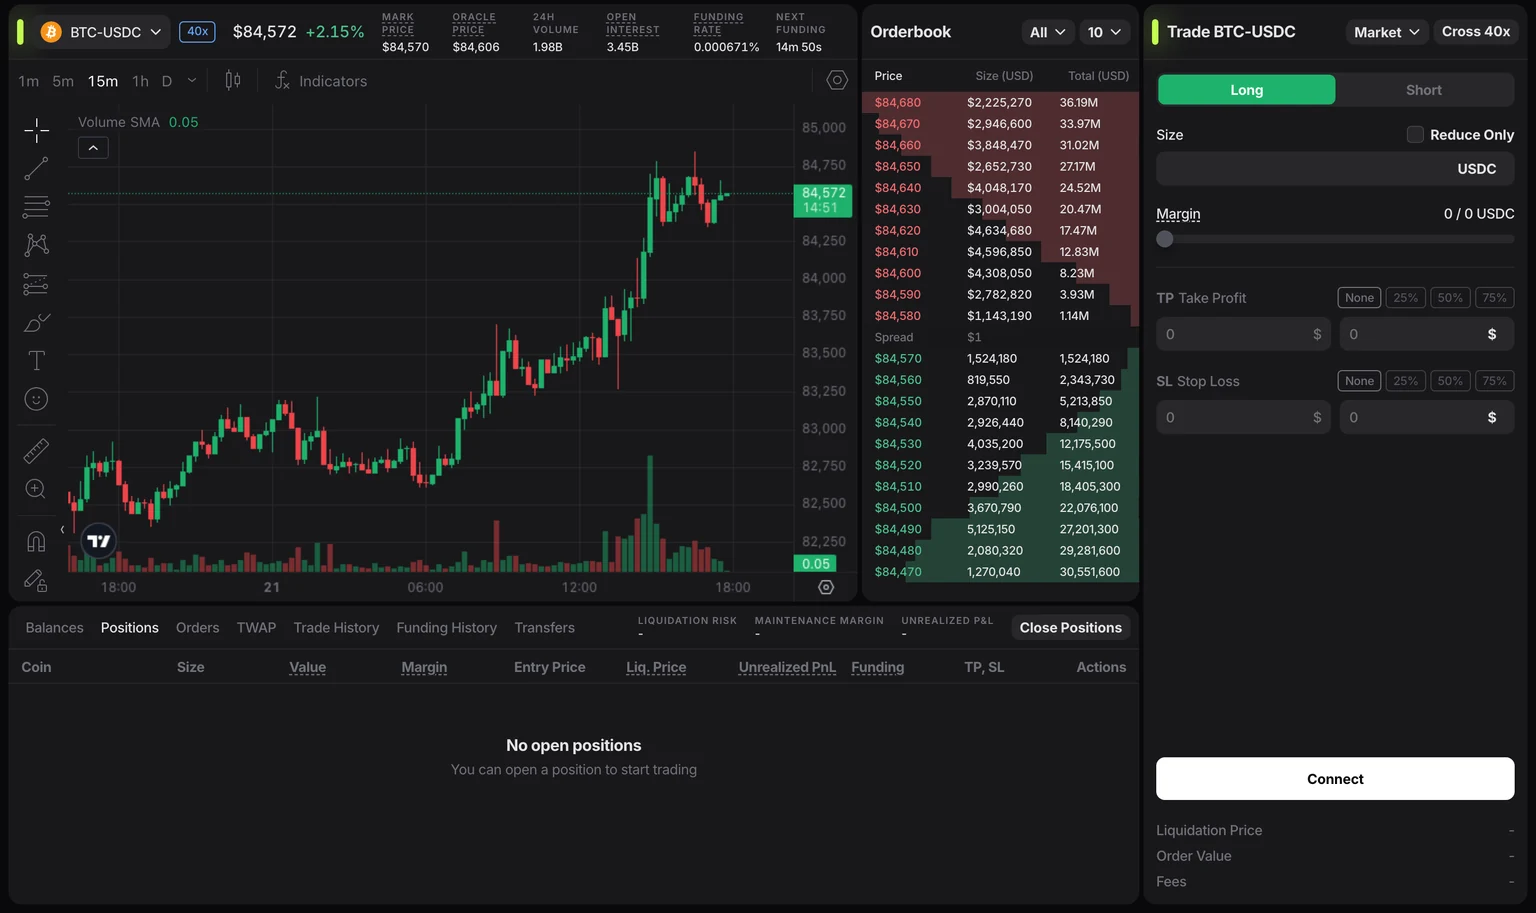
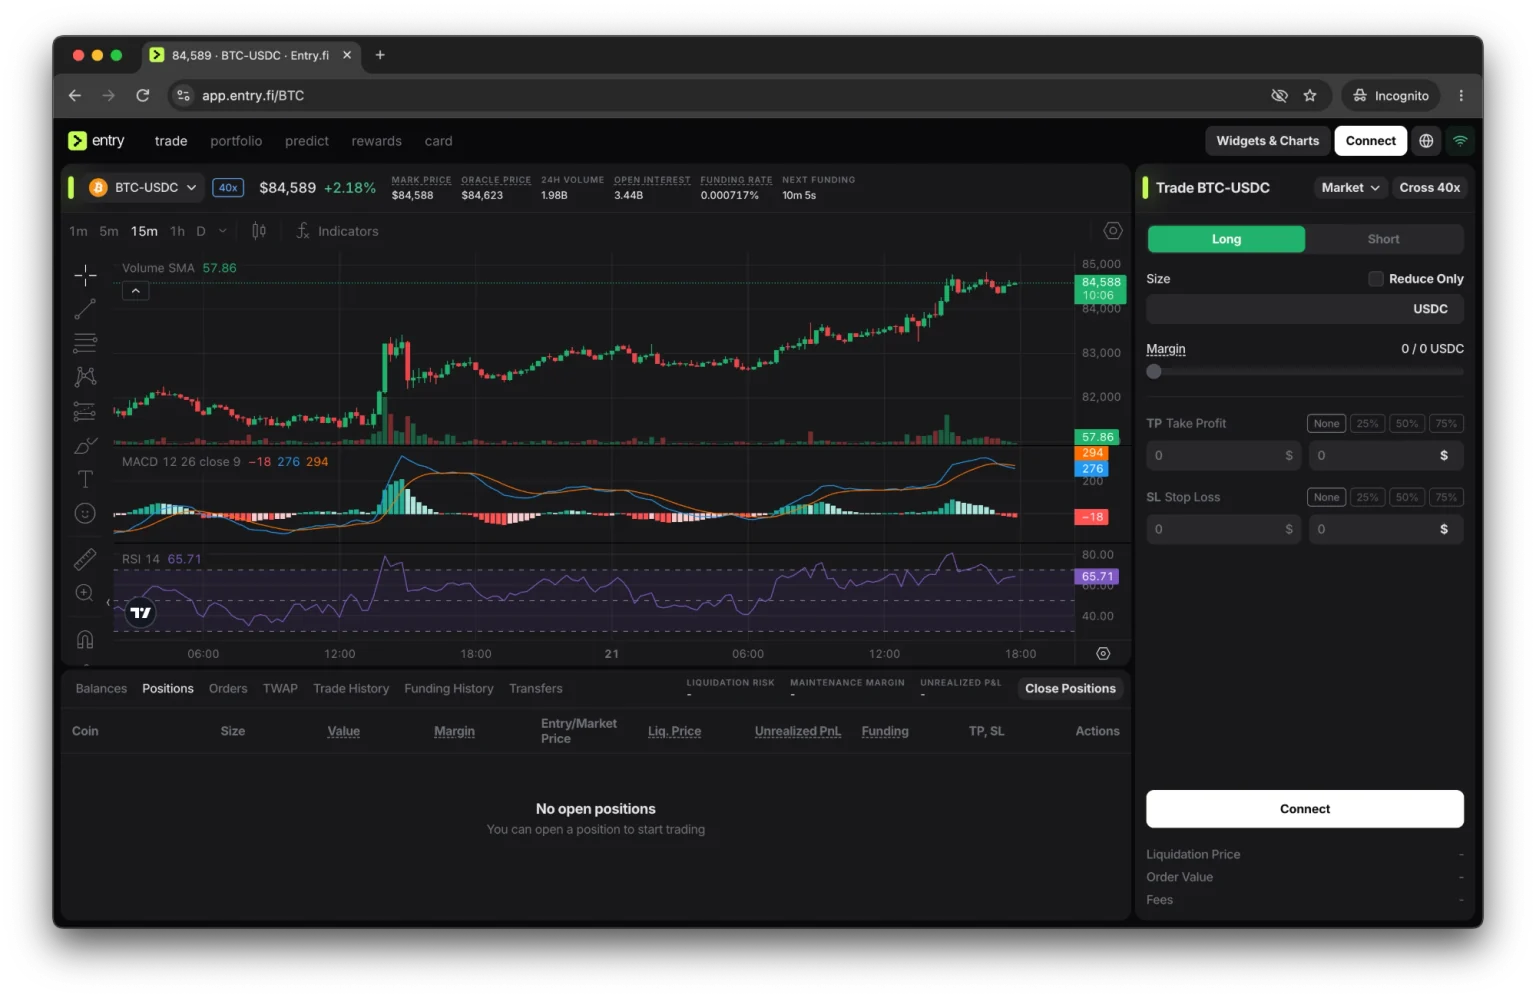
Brighty card: production screenshot in a browser window

diff --git a/index.html b/index.html
@@ -66,7 +66,7 @@
         <a class="case-card" href="work/brighty.html">
           <div class="case-thumb">
             <div class="case-thumb-single">
-              <img src="work/images/brighty/terminal-1536.webp" srcset="work/images/brighty/terminal-700.webp 700w, work/images/brighty/terminal-1536.webp 1536w" sizes="(max-width: 768px) 90vw, 768px" width="1536" height="913" alt="The trading terminal in production: BTC-USDC chart, order book, order form with cross leverage, and the positions table" loading="lazy" decoding="async">
+              <img src="work/images/brighty/terminal-1536.webp" srcset="work/images/brighty/terminal-700.webp 700w, work/images/brighty/terminal-1536.webp 1536w" sizes="(max-width: 768px) 90vw, 768px" width="1536" height="998" alt="The trading terminal in production at app.entry.fi: BTC-USDC chart with MACD and RSI, order form with cross leverage, and the positions table" loading="lazy" decoding="async">
             </div>
           </div>
           <div class="case-meta">
